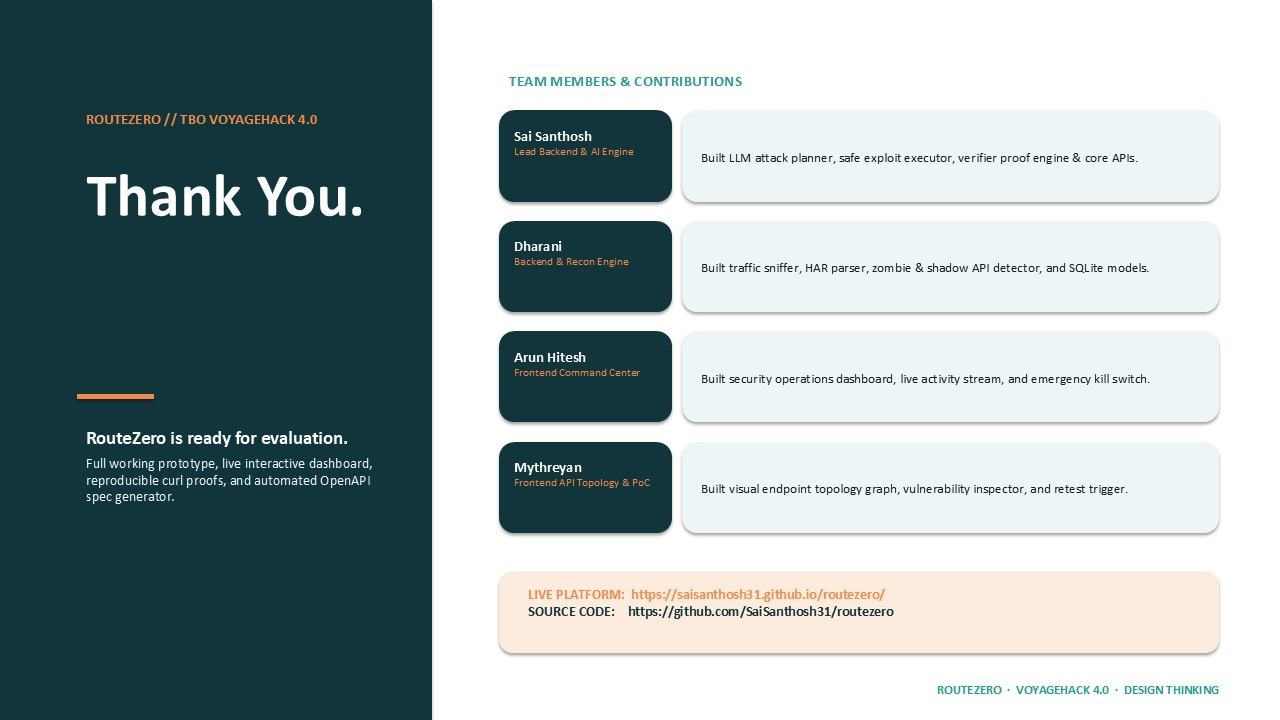
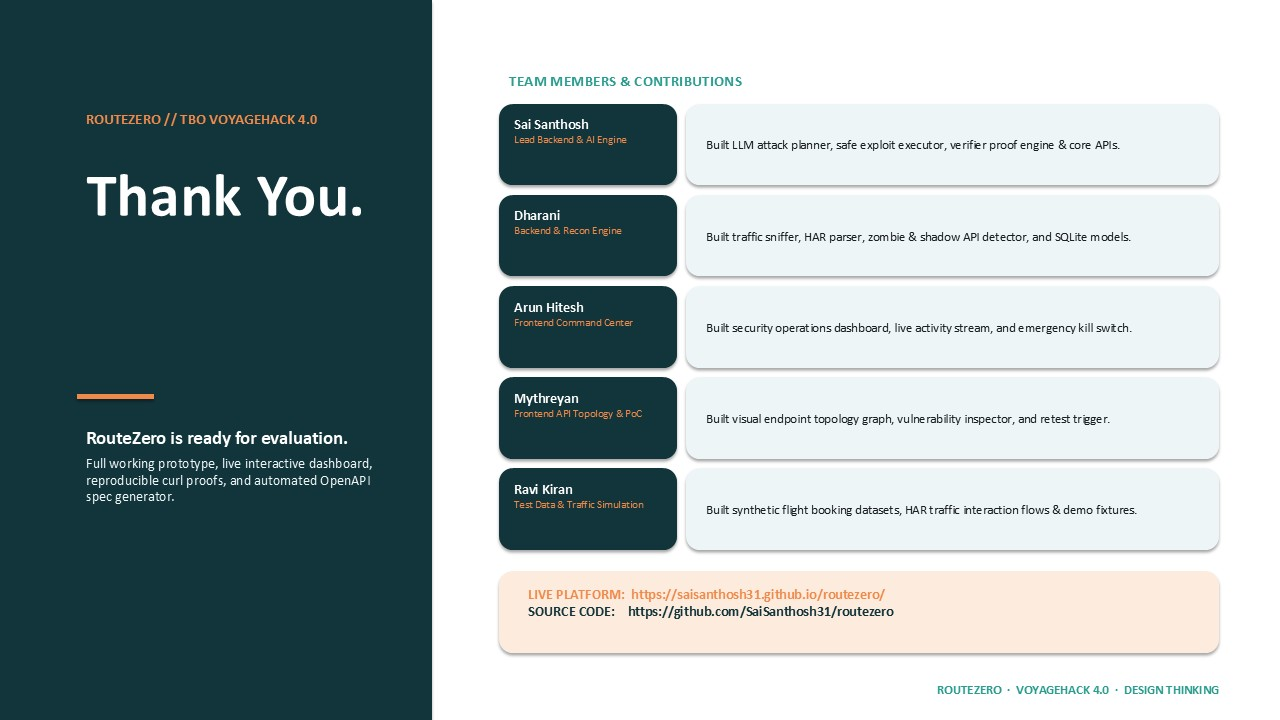
docs: include Ravi Kiran in team contributions across slides, documentation, and website

Changed region(s): [[0.375, 0.1222, 0.9688, 0.7944]]

diff --git a/frontend/index.html b/frontend/index.html
@@ -623,6 +623,7 @@
             <li><strong class="text-white">Dharani:</strong> Backend &amp; Recon Engine</li>
             <li><strong class="text-white">Arun Hitesh:</strong> Frontend Command Center</li>
             <li><strong class="text-white">Mythreyan:</strong> Frontend Topology &amp; PoC</li>
+            <li><strong class="text-white">Ravi Kiran:</strong> Test Data &amp; Traffic Simulation</li>
           </ul>
         </div>
 

diff --git a/index.html b/index.html
@@ -623,6 +623,7 @@
             <li><strong class="text-white">Dharani:</strong> Backend &amp; Recon Engine</li>
             <li><strong class="text-white">Arun Hitesh:</strong> Frontend Command Center</li>
             <li><strong class="text-white">Mythreyan:</strong> Frontend Topology &amp; PoC</li>
+            <li><strong class="text-white">Ravi Kiran:</strong> Test Data &amp; Traffic Simulation</li>
           </ul>
         </div>
 

diff --git a/generate_deck.py b/generate_deck.py
@@ -500,33 +500,34 @@ def build_exact_template_deck():
         ("Sai Santhosh", "Lead Backend & AI Engine", "Built LLM attack planner, safe exploit executor, verifier proof engine & core APIs."),
         ("Dharani", "Backend & Recon Engine", "Built traffic sniffer, HAR parser, zombie & shadow API detector, and SQLite models."),
         ("Arun Hitesh", "Frontend Command Center", "Built security operations dashboard, live activity stream, and emergency kill switch."),
-        ("Mythreyan", "Frontend API Topology & PoC", "Built visual endpoint topology graph, vulnerability inspector, and retest trigger.")
+        ("Mythreyan", "Frontend API Topology & PoC", "Built visual endpoint topology graph, vulnerability inspector, and retest trigger."),
+        ("Ravi Kiran", "Test Data & Traffic Simulation", "Built synthetic flight booking datasets, HAR traffic interaction flows & demo fixtures.")
     ]
 
     for m_i, (name, role, contrib) in enumerate(team):
-        card_y = Inches(1.15 + m_i * 1.15)
+        card_y = Inches(1.08 + m_i * 0.95)
         # Left Tag Pill
-        add_shape(s4, Inches(5.2), card_y, Inches(1.8), Inches(0.95), C_TEAL_DARK, rounded=True)
-        tx_name = s4.shapes.add_textbox(Inches(5.25), card_y + Inches(0.12), Inches(1.7), Inches(0.75))
+        add_shape(s4, Inches(5.2), card_y, Inches(1.85), Inches(0.85), C_TEAL_DARK, rounded=True)
+        tx_name = s4.shapes.add_textbox(Inches(5.25), card_y + Inches(0.08), Inches(1.75), Inches(0.7))
         tx_name.text_frame.word_wrap = True
         pn0 = tx_name.text_frame.paragraphs[0]
         pn0.text = name
-        pn0.font.size = Pt(11)
+        pn0.font.size = Pt(10.5)
         pn0.font.bold = True
         pn0.font.color.rgb = C_WHITE
         pn1 = tx_name.text_frame.add_paragraph()
         pn1.text = role
-        pn1.font.size = Pt(8.5)
+        pn1.font.size = Pt(8.0)
         pn1.font.color.rgb = C_CORAL
 
         # Right Content Container
-        add_shape(s4, Inches(7.1), card_y, Inches(5.6), Inches(0.95), C_ROW_BG, rounded=True)
-        tx_cont = s4.shapes.add_textbox(Inches(7.2), card_y + Inches(0.12), Inches(5.4), Inches(0.75))
+        add_shape(s4, Inches(7.15), card_y, Inches(5.55), Inches(0.85), C_ROW_BG, rounded=True)
+        tx_cont = s4.shapes.add_textbox(Inches(7.25), card_y + Inches(0.08), Inches(5.35), Inches(0.7))
         tx_cont.text_frame.vertical_anchor = MSO_ANCHOR.MIDDLE
         tx_cont.text_frame.word_wrap = True
         pc0 = tx_cont.text_frame.paragraphs[0]
         pc0.text = contrib
-        pc0.font.size = Pt(10)
+        pc0.font.size = Pt(9.5)
         pc0.font.color.rgb = C_TEXT_DARK
 
     # Bottom Links Box

diff --git a/SUBMISSION_SLIDES.md b/SUBMISSION_SLIDES.md
@@ -54,5 +54,11 @@
 ## SLIDE 4: Thank You Slide
 * **Heading:** Thank You
 * **Subheading:** RouteZero — Autonomous Real-Time AppSec Agent
+* **Team Members & Contributions:**
+  * **Sai Santhosh:** Lead Backend & AI Engine (LLM attack planner, safe executor, verifier proof engine & core APIs)
+  * **Dharani:** Backend & Recon Engine (Traffic sniffer, HAR parser, zombie & shadow API classifier, SQLite models)
+  * **Arun Hitesh:** Frontend Command Center (SOC dashboard, live activity stream, emergency kill switch)
+  * **Mythreyan:** Frontend Topology & PoC (API topology graph, vulnerability inspector, retest triggers)
+  * **Ravi Kiran:** Test Data & Traffic Simulation (Synthetic flight booking datasets, HAR traffic fixtures & demo telemetry)
 * **Live Interactive Demo:** https://saisanthosh31.github.io/routezero/
 * **GitHub Repository:** https://github.com/SaiSanthosh31/routezero
